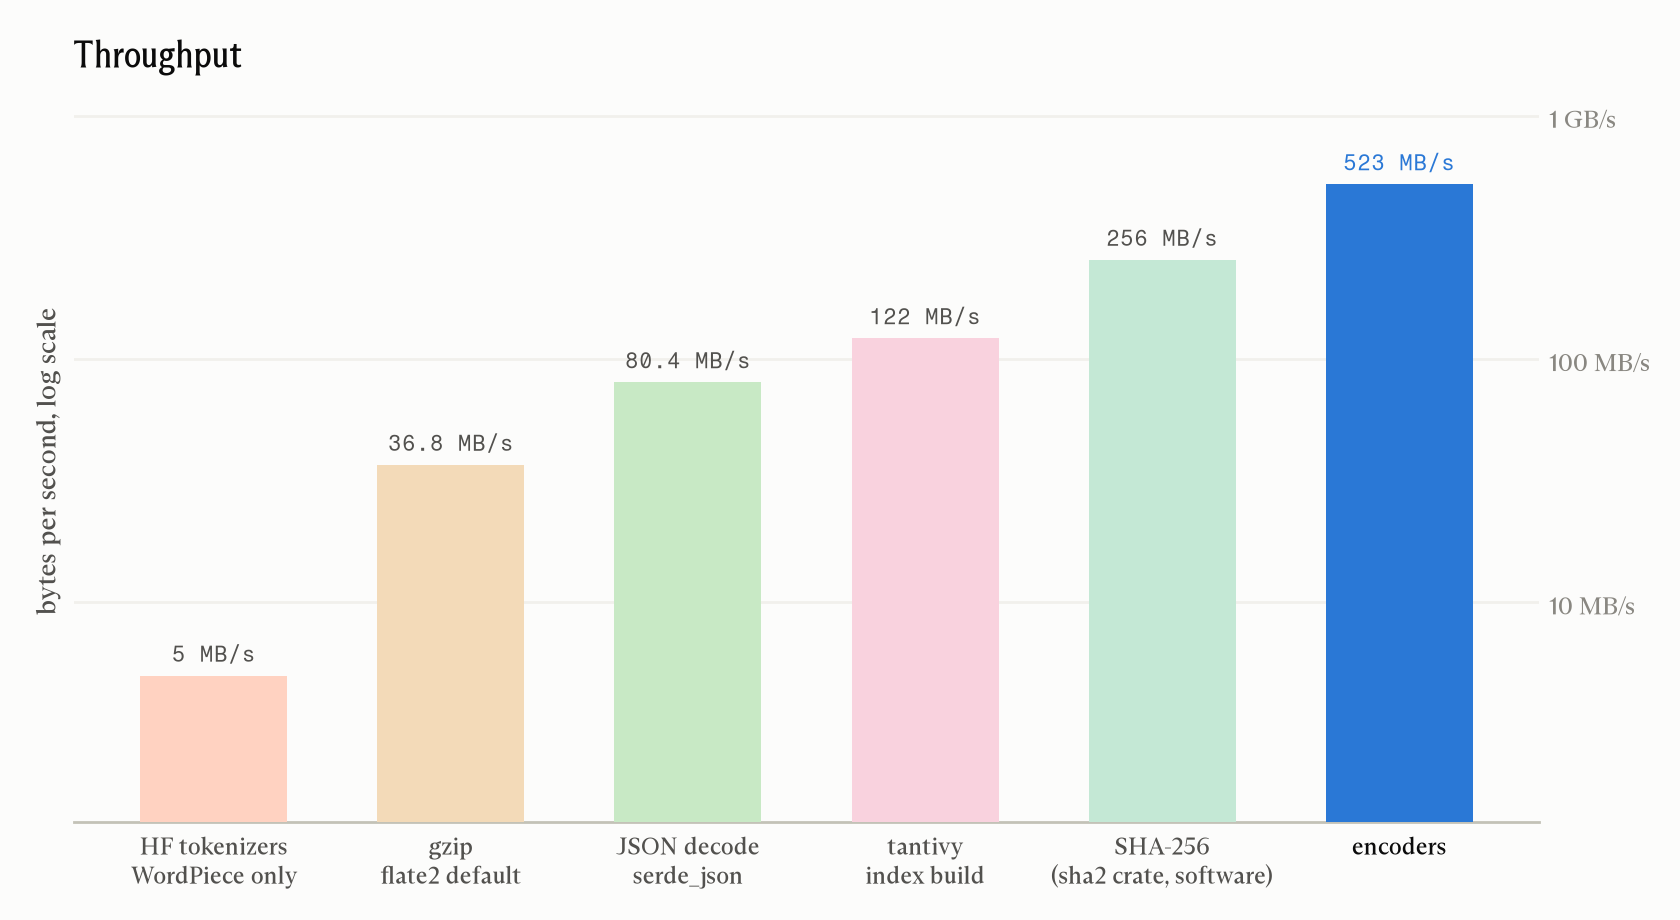
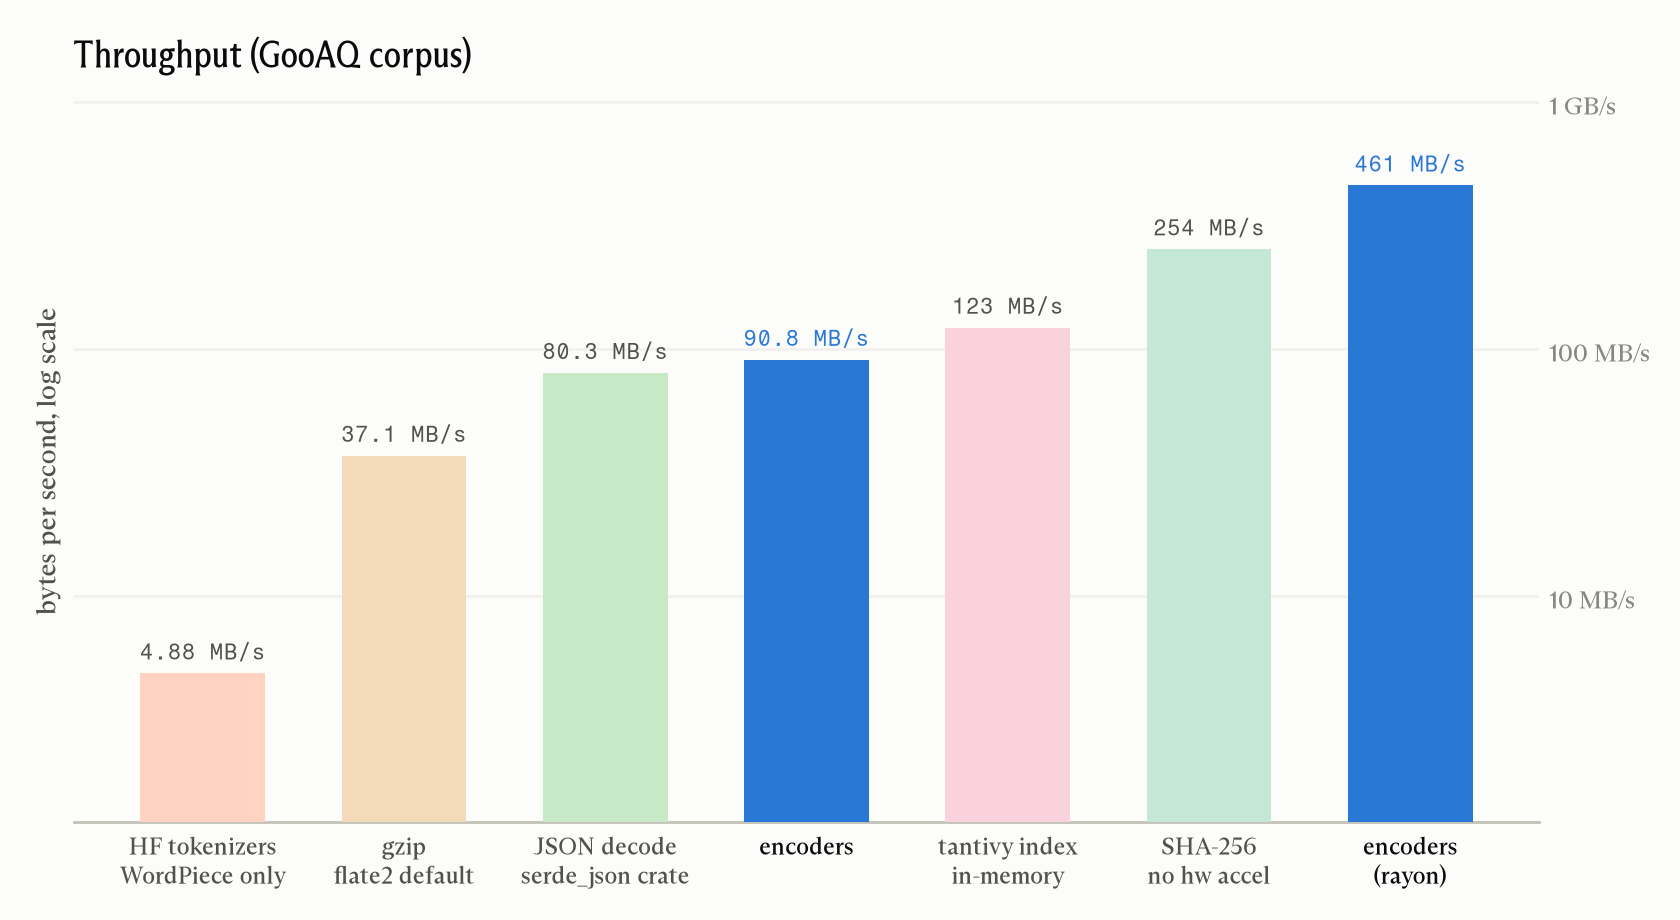
split single-core and  benchmarks

diff --git a/bench/py/charts.py b/bench/py/charts.py
@@ -36,21 +36,23 @@ QPS_CACHE = HERE / "benchmarks" / "qps.json"
 # sorted by value.
 THROUGHPUT_LABELS = {
     "encoders": "encoders",
+    "encoders-rayon": "encoders\n(rayon)",
     "tokenize": "HF tokenizers\nWordPiece only",
-    "sha256_soft": "SHA-256\n(sha2 crate, software)",
+    "sha256_soft": "SHA-256\nno hw accel",
     "gzip": "gzip\nflate2 default",
-    "tantivy_index": "tantivy\nindex build",
-    "json_decode": "JSON decode\nserde_json",
+    "tantivy_index": "tantivy index\nin-memory",
+    "json_decode": "JSON decode\nserde_json crate",
 }
 QPS_LABELS = {
     "encoders": "encoders",
+    "encoders-rayon": "encoders\n(rayon)",
     "model2vec-rs": "model2vec-rs\npotion-base-8M",
     "candle/all-MiniLM-L6-v2": "candle\nall-MiniLM-L6-v2",
     "minishlab/potion-base-8M": "sentence-transformers\npotion-base-8M",
     "sentence-transformers/all-MiniLM-L6-v2": "sentence-transformers\nall-MiniLM-L6-v2",
 }
 PY_MODELS = ["minishlab/potion-base-8M", "sentence-transformers/all-MiniLM-L6-v2"]
-HIGHLIGHT = "encoders"
+HIGHLIGHT = {"encoders", "encoders-rayon"}
 # Every bar other than `HIGHLIGHT` is re-cut in OKLCH: chroma scaled by
 # OTHER_SATURATION (0 = gray, 1 = the palette's own chroma) and lightness
 # pinned to OTHER_LIGHTNESS (0..1, perceptual) so dark slots such as green
@@ -99,23 +101,30 @@ def recut(hex_color: str, chroma_keep: float, lightness: float) -> str:
 
 
 def bar_colors(keys: list[str], labels: dict[str, str], t) -> list[str]:
-    slots = [k for k in labels if k != HIGHLIGHT]
+    slots = [k for k in labels if k not in HIGHLIGHT]
     out = []
     for k in keys:
-        if k == HIGHLIGHT:
+        if k in HIGHLIGHT:
             out.append(t["series"][0])
         else:
-            out.append(recut(t["series"][1 + slots.index(k)], OTHER_SATURATION, OTHER_LIGHTNESS))
+            out.append(
+                recut(
+                    t["series"][1 + slots.index(k)], OTHER_SATURATION, OTHER_LIGHTNESS
+                )
+            )
     return out
 
 
 def run_rust_benches():
+    # Each bench twice: the default build, then `--features rayon`, which
+    # records only the parallel encoders bar under a second id.
     for bench in ("throughput", "embedders"):
-        subprocess.run(
-            ["cargo", "bench", "-p", "encoders-bench", "--bench", bench],
-            cwd=ROOT,
-            check=True,
-        )
+        for extra in ([], ["--features", "rayon"]):
+            subprocess.run(
+                ["cargo", "bench", "-p", "encoders-bench", "--bench", bench, *extra],
+                cwd=ROOT,
+                check=True,
+            )
 
 
 def run_python_bench() -> dict[str, float]:
@@ -138,9 +147,7 @@ def criterion_results(group: str) -> dict[str, float]:
         assert unit in ("Bytes", "Elements"), unit
         out[meta["function_id"]] = count / secs
     if not out:
-        sys.exit(
-            f"no criterion results under {CRITERION / group}; run without --no-bench"
-        )
+        print(f"no criterion results under {CRITERION / group}; skipping its chart", file=sys.stderr)
     return out
 
 
@@ -185,6 +192,8 @@ def bars(
     items = sorted(
         ((k, v) for k, v in values.items() if k in labels), key=lambda kv: kv[1]
     )
+    if not items:
+        return
     xs = range(len(items))
     cols = bar_colors([k for k, _ in items], labels, t)
 
@@ -222,7 +231,7 @@ def bars(
             ha="center",
             fontsize=8,
             family=fams["mono"],
-            color=col if k == HIGHLIGHT else t["ink2"],
+            color=col if k in HIGHLIGHT else t["ink2"],
             zorder=5,
         )
     ax.set_xticks(list(xs))
@@ -230,7 +239,7 @@ def bars(
         [labels.get(k, k) for k, _ in items], fontsize=8.5, color=t["ink2"]
     )
     for lab, (k, _) in zip(ax.get_xticklabels(), items):
-        if k == HIGHLIGHT:
+        if k in HIGHLIGHT:
             lab.set_color(t["ink"])
     ax.set_ylabel(ylabel, color=t["ink2"], fontsize=9.5)
     ax.set_title(
@@ -262,7 +271,7 @@ def main():
     bars(
         throughput,
         THROUGHPUT_LABELS,
-        "Throughput",
+        "Throughput (GooAQ corpus)",
         "bytes per second, log scale",
         OUT / "throughput.png",
         log=True,
@@ -273,7 +282,7 @@ def main():
     bars(
         qps,
         QPS_LABELS,
-        "Queries embedded per second",
+        "Queries embedded per second (GooAQ)",
         "queries per second",
         OUT / "qps.png",
         log=False,

diff --git a/bench/benches/embedders.rs b/bench/benches/embedders.rs
@@ -21,6 +21,9 @@ use std::time::Duration;
 use tokenizers::{PaddingParams, Tokenizer, TruncationParams};
 
 mod common;
+
+/// Criterion id of the encoders bar; `--features rayon` records a second one.
+const ENCODERS_ID: &str = if cfg!(feature = "rayon") { "encoders-rayon" } else { "encoders" };
 use common::{load_sentences, target_dir};
 
 const BATCH: usize = 4096;
@@ -104,9 +107,12 @@ impl MiniLm {
 
 fn bench_embedders(c: &mut Criterion) {
     // candle's matmuls and the tokenizer both fan out over rayon; this must be
-    // set before the global pool is first touched.
-    // SAFETY: single-threaded at this point, no other thread reads the env.
-    unsafe { std::env::set_var("RAYON_NUM_THREADS", "1") };
+    // set before the global pool is first touched. The `rayon` build is the
+    // one bar meant to use every core, so it is left alone there.
+    if !cfg!(feature = "rayon") {
+        // SAFETY: single-threaded at this point, no other thread reads the env.
+        unsafe { std::env::set_var("RAYON_NUM_THREADS", "1") };
+    }
     let sentences = load_sentences();
     let batch: Vec<String> = sentences[..BATCH.min(sentences.len())].to_vec();
     let n = batch.len();
@@ -118,9 +124,14 @@ fn bench_embedders(c: &mut Criterion) {
     group.sample_size(10);
     group.sampling_mode(SamplingMode::Flat);
 
-    group.bench_function("encoders", |b| {
+    group.bench_function(ENCODERS_ID, |b| {
         b.iter(|| black_box(encoders::encode(black_box(&batch))));
     });
+    if cfg!(feature = "rayon") {
+        // Only the encoders bar differs between builds.
+        group.finish();
+        return;
+    }
 
     let model2vec = StaticModel::from_pretrained(MODEL2VEC_DEFAULT, None, None, None)
         .unwrap_or_else(|e| panic!("model2vec-rs failed to load {MODEL2VEC_DEFAULT}: {e}"));

diff --git a/bench/benches/throughput.rs b/bench/benches/throughput.rs
@@ -27,6 +27,9 @@ use tantivy::schema::{Schema, TEXT};
 use tantivy::{Index, doc};
 
 mod common;
+
+/// Criterion id of the encoders bar; `--features rayon` records a second one.
+const ENCODERS_ID: &str = if cfg!(feature = "rayon") { "encoders-rayon" } else { "encoders" };
 use common::{load_sentences, target_dir};
 
 /// The `tokenizer.json` ese-build downloaded for the compiled model. It sits
@@ -67,11 +70,16 @@ fn bench_throughput(c: &mut Criterion) {
     group.sample_size(10);
     group.sampling_mode(SamplingMode::Flat);
 
-    group.bench_function("encoders", |b| {
+    group.bench_function(ENCODERS_ID, |b| {
         b.iter(|| {
             let _ = black_box(encoders::encode(sentences));
         });
     });
+    if cfg!(feature = "rayon") {
+        // Only the encoders bar differs between builds.
+        group.finish();
+        return;
+    }
 
     {
         let tokenizer = tokenizers::Tokenizer::from_file(tokenizer_path())

diff --git a/readme.md b/readme.md
@@ -1,5 +1,15 @@
 ![Our mouse, Scott](https://raw.githubusercontent.com/flowercomputers/encoders/refs/heads/master/.github/hero.jpg)
 
+<div align="right">
+
+[
+![Current version](https://img.shields.io/crates/v/encoders)
+![Total downloads](https://img.shields.io/crates/d/encoders)
+![Licensed Apache-2.0](https://img.shields.io/github/license/flowercomputers/encoders)
+](https://crates.io/crates/encoders)
+
+</div>
+
 # encoders
 
 The encoders crate is the **fastest way to semantically embed text** on CPU.[^1] We take [a collection of state-of-the-art](#configuration-and-model-selection) static embedding models, and compile them directly into Rust code. That means no downloading models at runtime, no GPU, no inference runtime, no Python... just nanosecond scale text embedding.
@@ -26,7 +36,7 @@ $ cargo add encoders --features='potion-retrieval-32m, int8, mrl-256, rayon'
 
 ## Performance
 
-Encoders is fast. Here's some througput numbers on an Apple M3 Pro, with the encoders crate at default settings (with the `rayon` feature enabled):
+Encoders is fast. To give you an idea of just _how_ fast, here's encoders compared to a handful of other throughput-sensitive tasks (measured on an Apple M3 Pro CPU):
 
 ![Chart demonstrating the encoders' crate throughput to other tasks](https://raw.githubusercontent.com/flowercomputers/encoders/refs/heads/master/.github/throughput.png)
 
@@ -269,7 +279,7 @@ The workspace has four crates. `encoders` is the one above. [`ese`](./ese) is th
 
 **Embedding quality.** Encoders only works with static embedding models: each token has one fixed vector and a text is the mean of its tokens' vectors. There is no attention, so word order and context are invisible, and quality is a step below even small transformer encoders. On retrieval benchmarks the gap is real but not enormous; the bekko family scores about 49 to 54 on NanoBEIR against the low 60s for a small transformer. In exchange, embedding text runs in the order of nanoseconds instead of milliseconds. For a lot of (if not most) search, dedup, clustering, and routing work, that is the right trade (and we hope the speed makes up for the rest).
 
-**Binary size and compile time.** The model's lookup table is embedded in your executable: from a few MB for a small model at a narrow width to a few hundred MB for a large vocabulary at full width in f32. Any embedding model needs its weights at runtime somehow; this crate just puts them in the binary rather than downloading/loading them at runtime. The first build of a model downloads it from the Hugging Face hub (into `target/ese-cache`, so it's cleaned up by `cargo clean`) and the final link of a large table takes a while. You also _really, really need to compile this with optimizations on_... give LLVM a chance to autovectorize!
+**Binary size and compile time.** The model's lookup table is embedded in your executable, so this can add a few MB (for a small model at a narrow width) up to a few hundred MB for a model large vocabulary at full width in f32. That said, any model needs its weights at runtime somehow; this crate just puts them in the binary rather than downloading/loading them at runtime. The first build of a model downloads it from the Hugging Face hub (into `target/ese-cache`, so it's cleaned up by `cargo clean`) and the final link of a large table takes a while. You also _really, really need to compile this with optimizations on_... give LLVM a chance to autovectorize!
 
 ## Licensing
 
